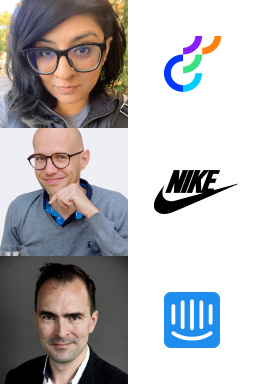
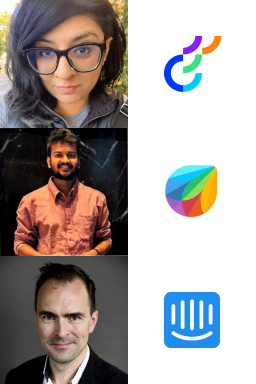
Update example projects on welcome step

Changed region(s): [[0.0, 0.3125, 0.5, 0.6875], [0.5938, 0.4062, 0.9375, 0.5625]]

diff --git a/app/javascript/src/views/UserOnboarding/Welcome.js b/app/javascript/src/views/UserOnboarding/Welcome.js
@@ -94,8 +94,8 @@ export default function Welcome() {
             initial={{ y: 80 }}
             animate={{ y: 0 }}
             transition={{ duration: 0.5 }}
-            heading="Chiel and Nike"
-            title="Helping Nike optimize SEO traffic and reduce page bloat by 10X"
+            heading="Shiyam and Freshworks"
+            title="Generating over $1 million ARR for freshworks with paid search"
             avatarPosition="0 -64px"
             logoPosition="-64px -64px"
             gradient="from-purple-200 to-blue-300"
@@ -110,7 +110,7 @@ export default function Welcome() {
             logoPosition="-64px -128px"
           />
         </div>
-        <div className="p-8 lg:p-10 pb-16 text-center">
+        <div className="p-8 lg:p-10 lg:pb-16 text-center">
           <h2 className="text-3xl font-semibold tracking-tight mb-2 text-blue900">
             Let's build your feed
           </h2>
